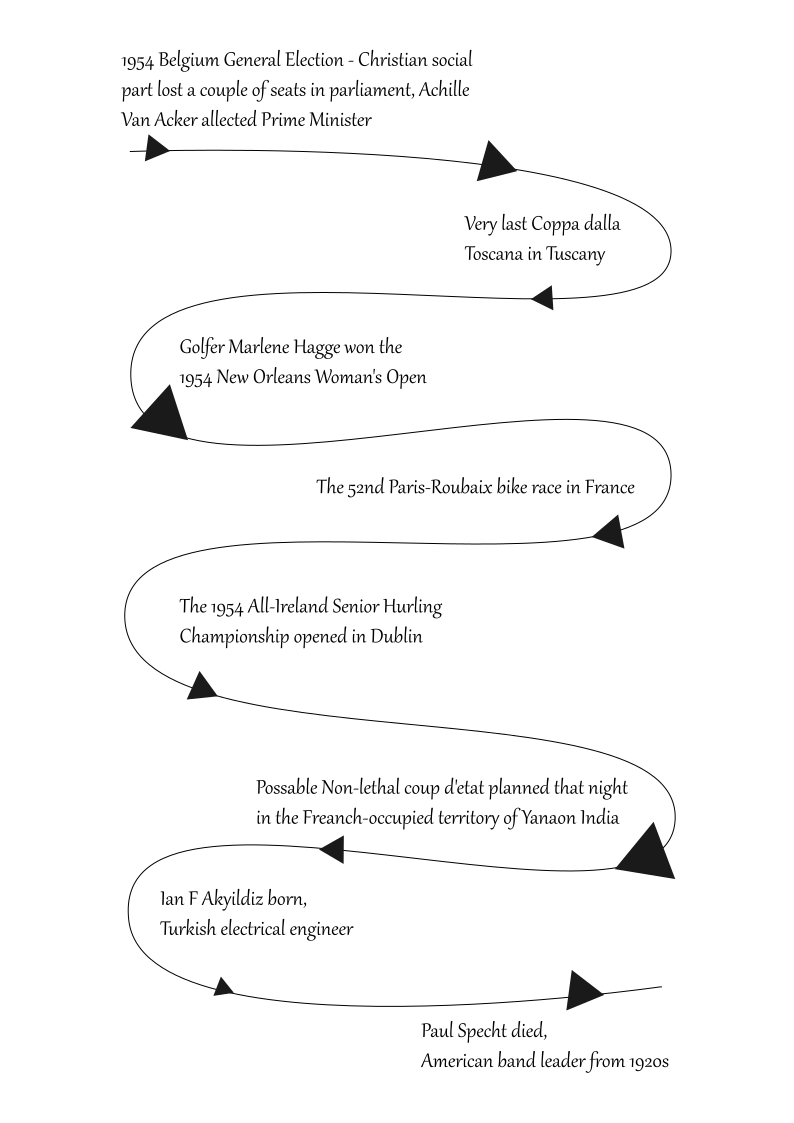
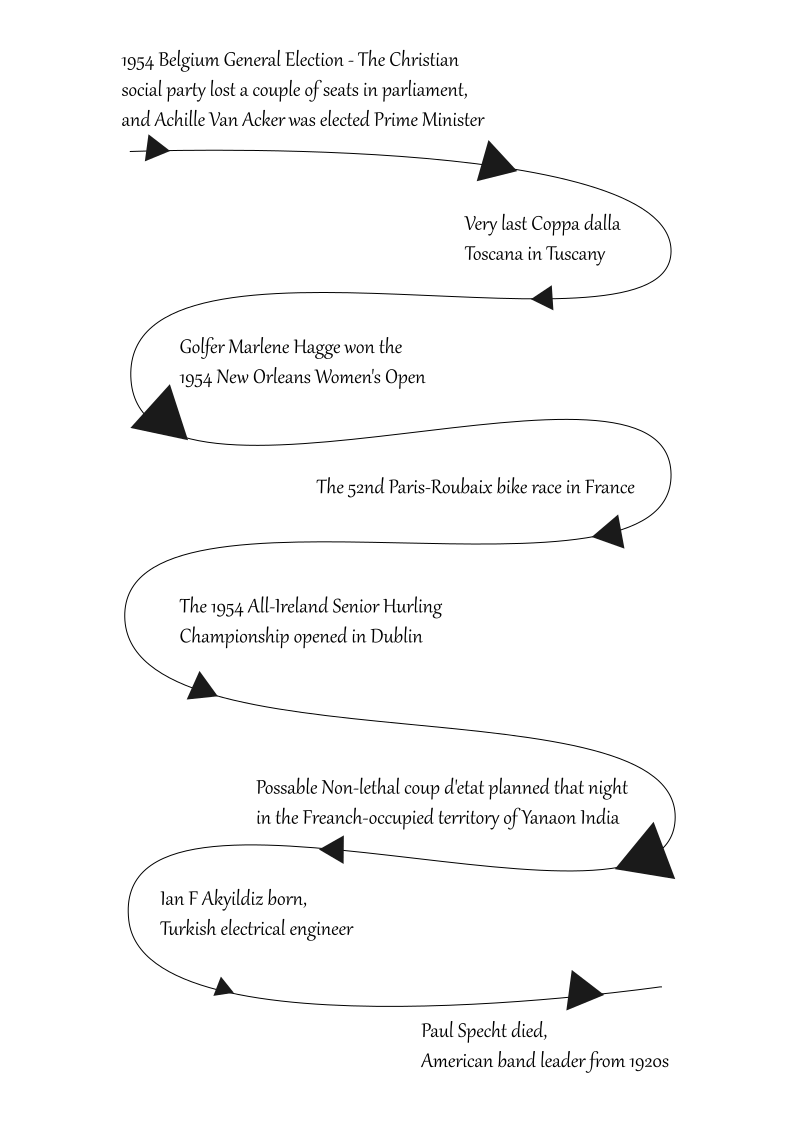
Page on colour and some others
deleted page on books
changed timeline
some words
added css

Changed region(s): [[0.1511, 0.0312, 0.6045, 0.1247], [0.4534, 0.3117, 0.5441, 0.3428]]

diff --git a/colour.html b/colour.html
@@ -1,12 +1,51 @@
+<!DOCTYPE html>
+<!-- Colours -->
 <html>
     <head>
         <link href="style.css" rel="stylesheet" type="text/css" />
-        <title>
-            Borings - Colours
-        </title>
+        <title>Borings - Colours</title>
     </head>
     
     <body>
-        
+        <div class="colour">
+            <h1>Some Boring colours</h1>
+            <h3> On the internet I found a list of boring colours, here is that list.</h3>
+            <p>
+                Name: Pantone 448 C <br>
+                Hex : #4a412a <br>
+                RGB: (74, 65, 42) <br>
+                CMYK: 0, 12, 40, 70
+            </p>
+            <p>
+                Name: Copper Red <br>
+                Hex: #C87948 <br>
+                RGB: (200, 121, 72) <br>
+                CMYK: 0, 0.395, 0.64, 0.215
+            </p>
+            <p>
+                Name: Silver Pink <br>
+                Hex: #BFB3A3 <br>
+                RGB: (191, 179, 163) <br>
+                CMYK: 0, 0.062, 0.146, 0.250
+            </p>
+            <p>
+                Name: Timberwolf <br>
+                Hex: #DED7CE <br>
+                RGB: (222, 215, 206) <br>
+                CMYK: 0, 0.031, 0.072, 0.129
+            </p>
+            <p>
+                Name: Dark Charcoal <br>
+                Hex: #333333 <br>
+                RGB: (51, 51, 51) <br>
+                CMYK: 0, 0, 0, 0.8
+            </p>
+            <p> 	
+                Name: Deep Aquamarine <br>
+                Hex: #3F8A72 <br>
+                RGB: (63, 138, 114) <br>
+                CMYK: 0.543, 0, 0.173, 0.458
+            </p>
+        </div>
     </body>
 </html>

diff --git a/style.css b/style.css
@@ -32,3 +32,5 @@
     margin-right: auto;
     width: 70%;
   }
+
+/*the page on colour*/
